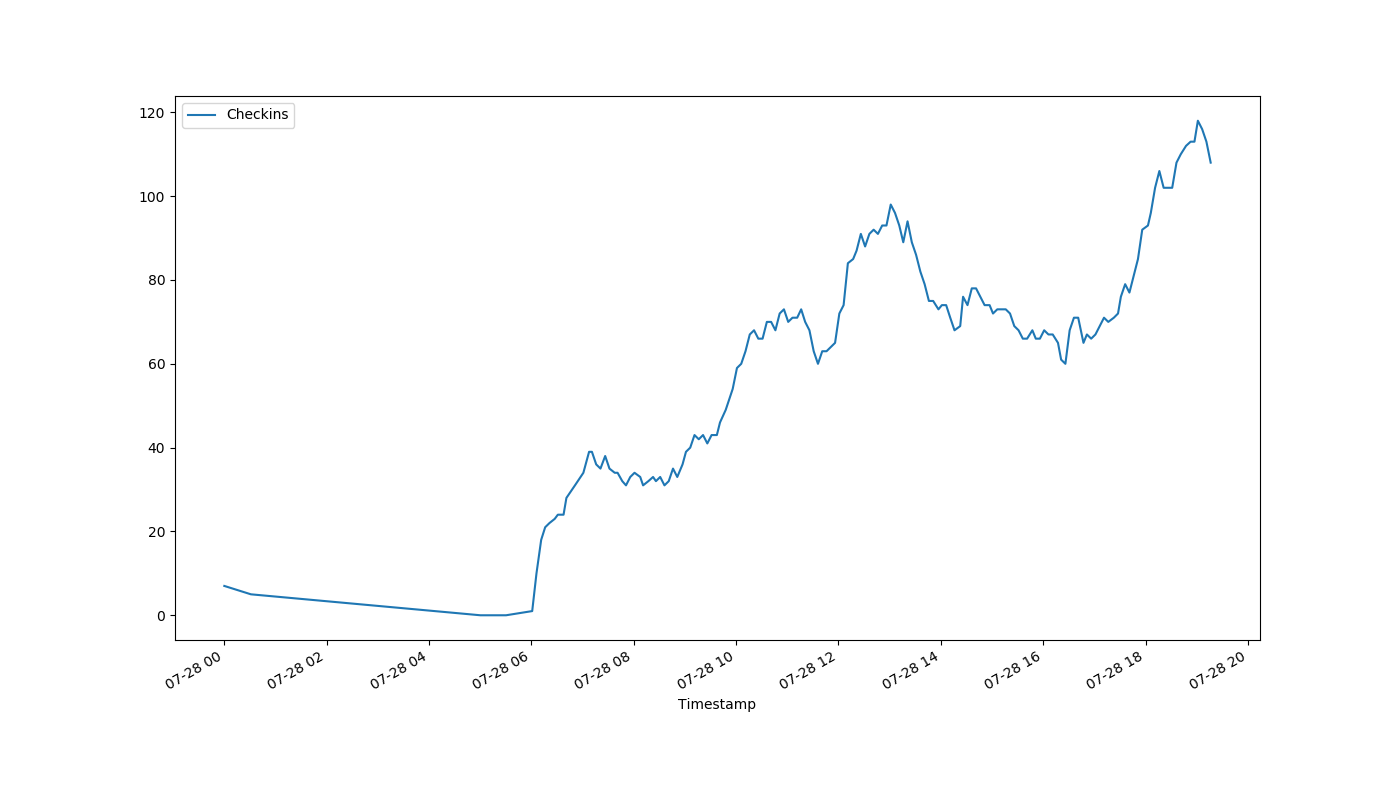
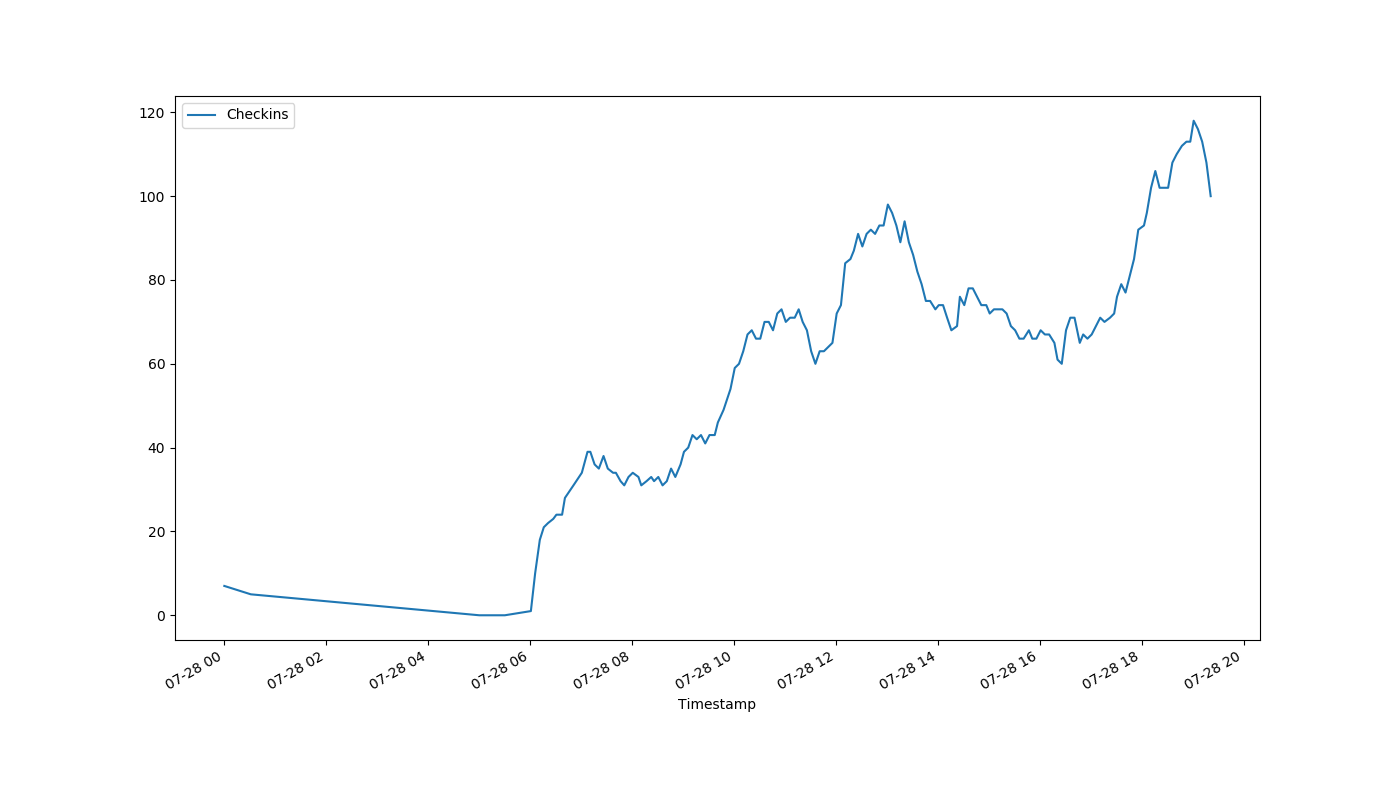
auto-Jul-28-19:22:18

diff --git a/index.html b/index.html
@@ -1,1 +1,1 @@
-<!DOCTYPE html><html><head><meta http-equiv="refresh" content="30"><link rel='stylesheet' href='holmcurrent.css'></head><body><p id='count'>108</p><div id='graph-wrap'><img id='graph' src='holmgraph-Jul-28.png'></div><p id='updated'>Last updated 19:16:19 / 19:16:18</p></body></html>
+<!DOCTYPE html><html><head><meta http-equiv="refresh" content="30"><link rel='stylesheet' href='holmcurrent.css'></head><body><p id='count'>100</p><div id='graph-wrap'><img id='graph' src='holmgraph-Jul-28.png'></div><p id='updated'>Last updated 19:21:19 / 19:21:19</p></body></html>
